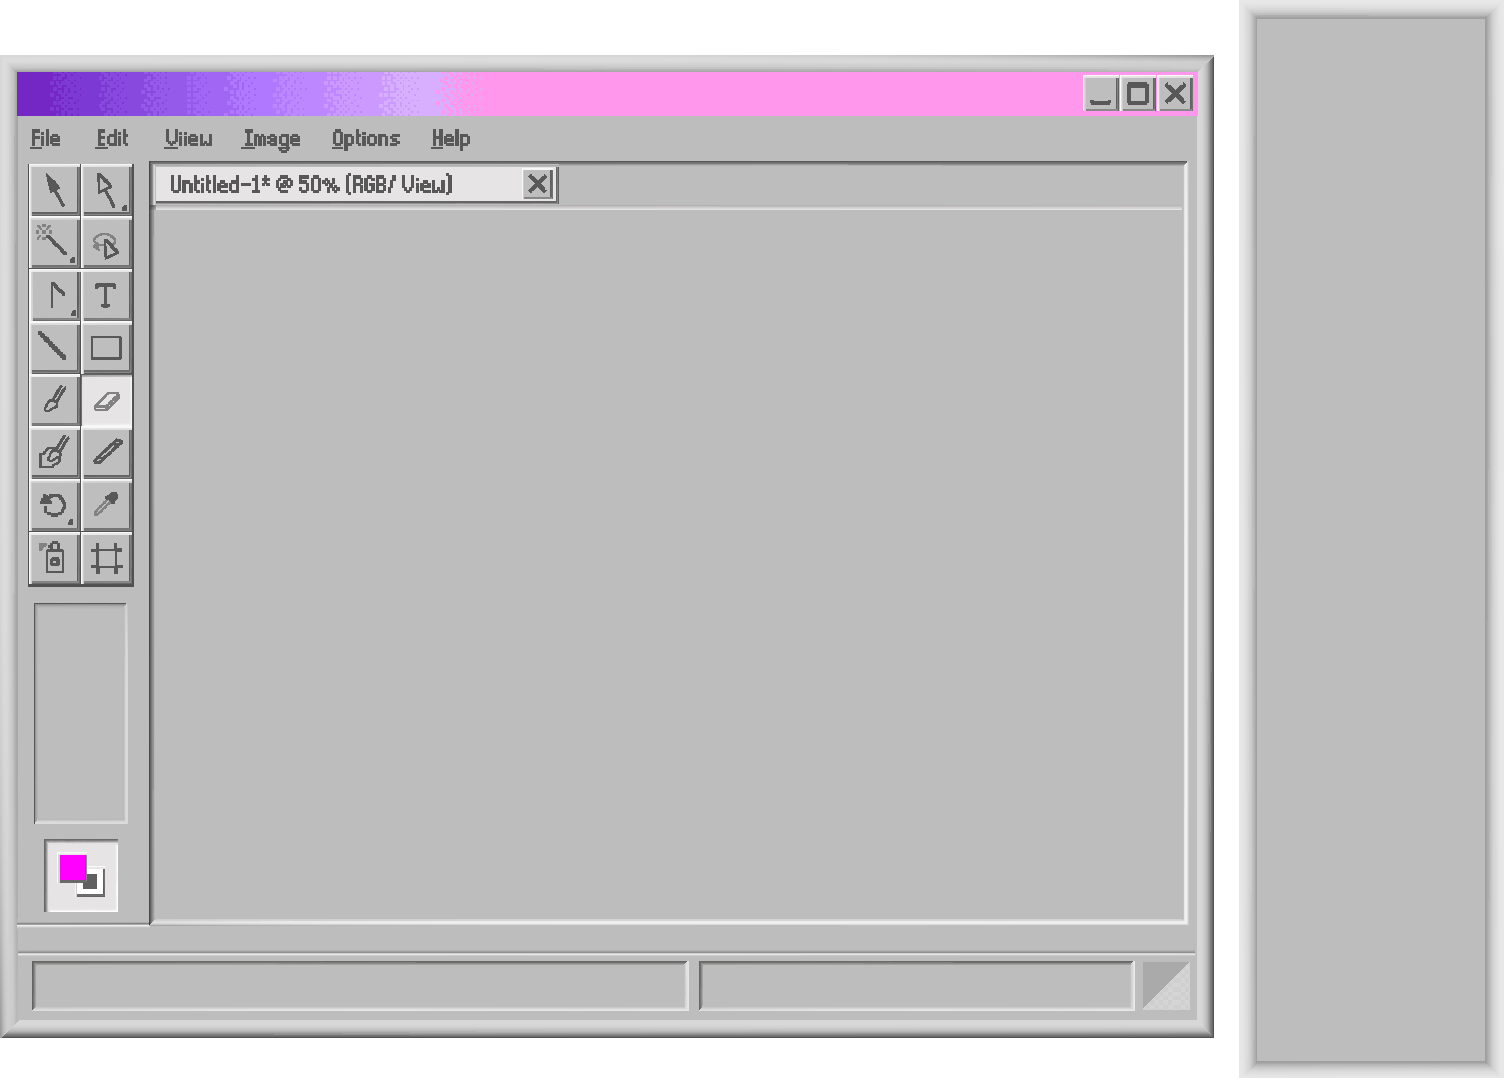
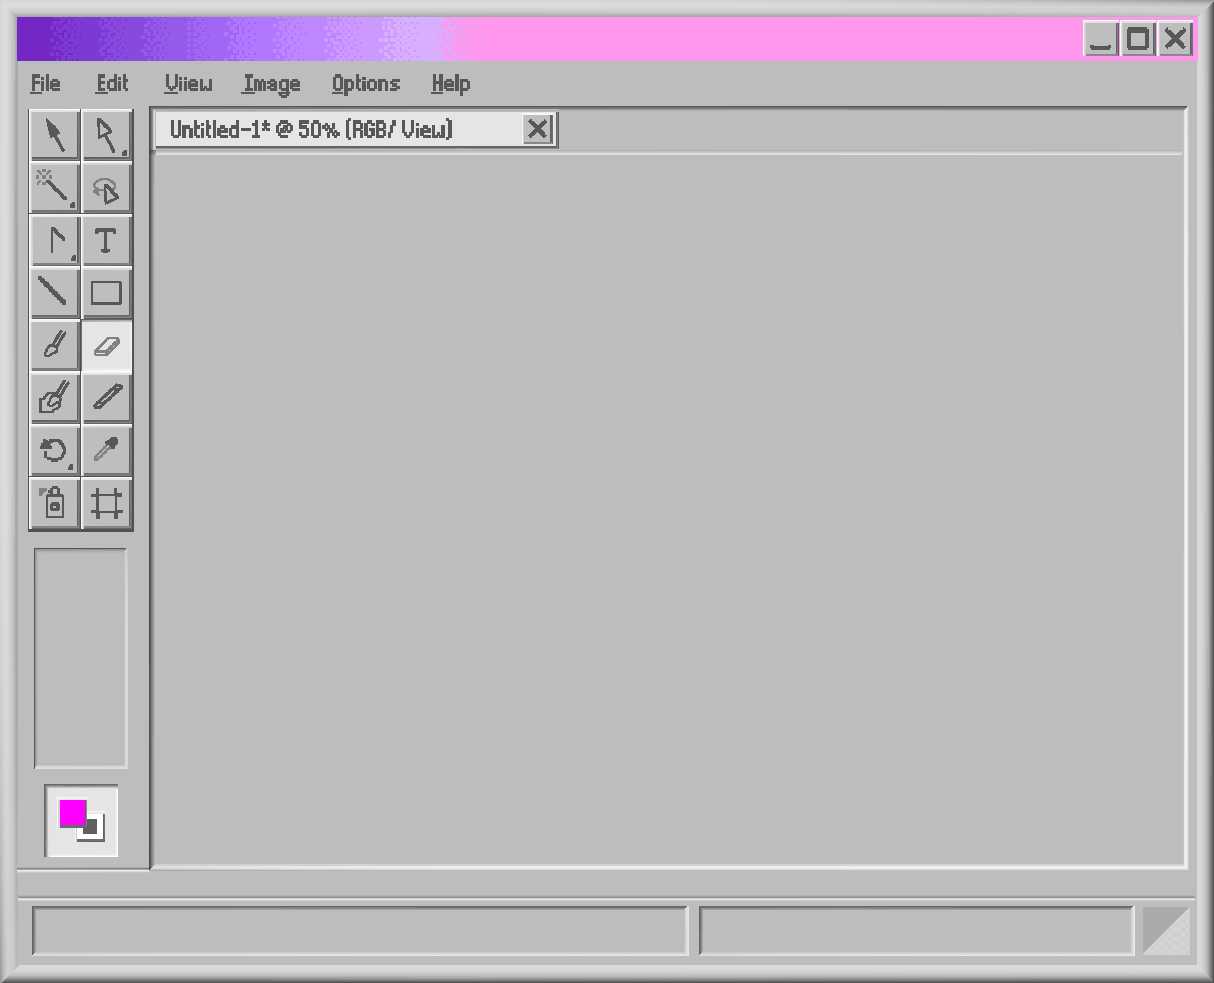
gallery frame

Changed region(s): [[0.0, 0.0, 1.0, 1.0], [0.0, 0.5799, 0.0305, 0.763]]

diff --git a/main.js b/main.js
@@ -1,20 +1,26 @@
 
-const gall = document.getElementById('gall');
+const gall = document.getElementById('gall_menu');
 const gall_icon = document.getElementById('gall_img');
+const listBox = document.getElementById('list_box');
 
 gall_icon.addEventListener('click', () => {
     if (board.style.display == 'block') {
         board.style.display = 'none';
         embed.style.display = 'none';
         gall.style.display = 'block';
+        listBox.style.display = 'block';
 
     }
     else {
         if (gall.style.display == 'block') {
             gall.style.display = 'none';
+            frame.style.display = 'none';
+            listBox.style.display = 'none';
         }
         else {
             gall.style.display = 'block';
+            frame.style.display = 'none';
+            listBox.style.display = 'block';
 
         }
 
@@ -30,6 +36,8 @@ const embed = document.getElementById('embed1');
 diary_img.addEventListener('click', () => {
     if (gall.style.display == 'block') {
         gall.style.display = 'none';
+        frame.style.display = 'none';
+        listBox.style.display = 'none';
         board.style.display = 'block';
         embed.style.display = 'block';
 
@@ -47,3 +55,13 @@ diary_img.addEventListener('click', () => {
 
     }
 });
+
+var images = document.querySelectorAll("#img_list>li>a");
+var frame = document.getElementById("frame");
+
+for (var i = 0; i < images.length; i++) {
+    images[i].addEventListener("click", function (e) {
+        e.preventDefault();
+        frame.style.display = 'block';
+    });
+}

diff --git a/main.html b/main.html
@@ -53,10 +53,29 @@
         </div>
     </div>
     <div id="empty1">
-        <img src="img/gallery.png" alt="gall_image" class="gallc" id="gall">
-        <embed src="http://delightpi.ivyro.net/bbs/zboard.php?id=diary"  id="embed1">
+        <div id="list_box">
+            <ul id="img_list">
+                <li>
+                    <a href="img/sample1_2.png">
+                        <img src="img/sample1.png" alt="sample1" />
+                    </a>
+                </li>
+                <li>
+                    <a href="img/sample2_2.png">
+                        <img src="img/sample2.png" alt="sample1" />
+                    </a>
+                </li>
+                <li>
+                    <a href="img/sample3_2.png">
+                        <img src="img/sample3.png" alt="sample1" />
+                    </a>
+                </li>
+            </ul>
+        </div>
+        <img src="img/gallery_menu.png" alt="gall_image" class="gallc" id="gall_menu">
+        <embed src="http://delightpi.ivyro.net/bbs/zboard.php?id=diary" id="embed1">
         <img src="img/board.png" alt="board_image" class="boardc" id="board">
-
+        <img src="img/gallery.png" alt="gall_frame" id="frame" />
     </div>
 
     <div id="count">

diff --git a/main.css b/main.css
@@ -45,9 +45,10 @@ img {
 }*/
 
 
-#gall {
-    padding-left: 16px;
-    width:1504px;
+#gall_menu {
+    margin:0;
+    padding-left: 1255px;
+    width:265px;
     display: none;
     animation: grow 0.2s ease-out 1 backwards;
 }
@@ -57,7 +58,7 @@ img {
     height: 705px;
     display: none;
     position: absolute;
-    left:410px;
+    left:409px;
     top:85px;
 }
 
@@ -162,4 +163,47 @@ img {
     100% {
         height: 1078px;
     }
+}
+
+
+#list_box {
+}
+#img_list {
+    margin: 20px;
+}
+
+#img_list::after {
+    content: "";
+    display: block;
+    clear: both;
+}
+
+#img_list > li {
+    float: left;
+    margin: 10px 15px;
+    list-style:none;
+}
+
+#img_list > li > a {
+    display: block;
+    text-decoration: none;
+}
+
+#img_list > li > a > img {
+    display: block;
+    width: 54px;
+    border: 1px dotted black;
+}
+#list_box{
+    position:absolute;
+    top:30px;
+    left:1623px;
+    display:none;
+}
+
+#frame{
+    position:absolute;
+    top:52px;
+    left:415px;
+    display:none;
 }

diff --git a/index.css b/index.css
@@ -1,6 +1,4 @@
 
-.module {
-}
 body {
     width: 1900px;
     height:1080px;
